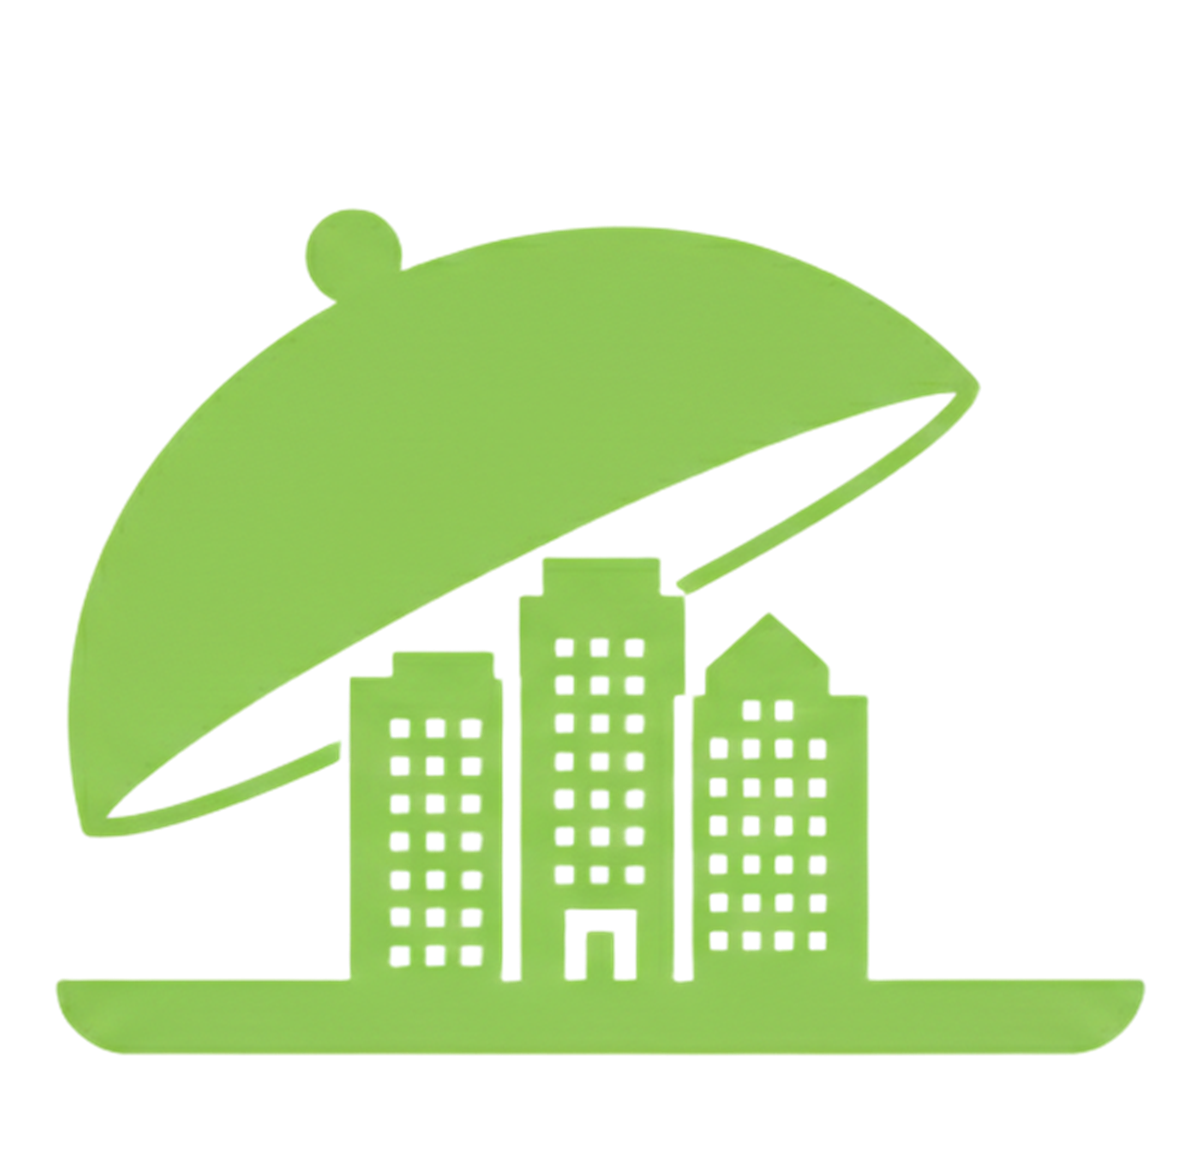
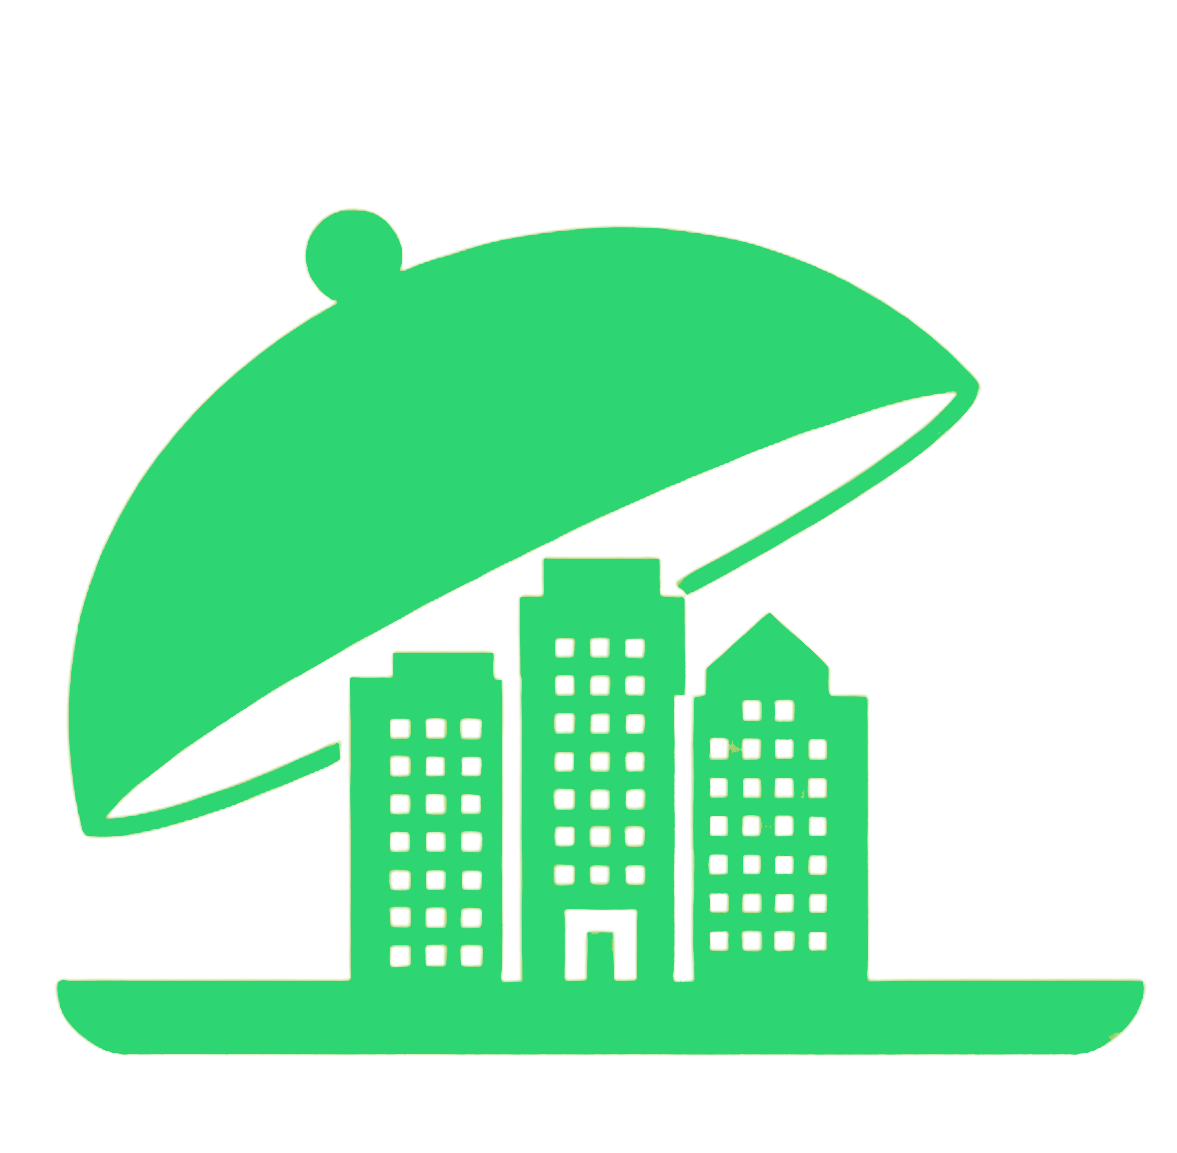
Style: 서울집사 로고 폴더 변경 및 로그인 페이지에 로고 추가

diff --git a/Front/src/components/layout/Header.tsx b/Front/src/components/layout/Header.tsx
@@ -1,17 +1,27 @@
 // seoul-jibsa\src\components\layout\Header.tsx
-import { useState } from "react";
+import { useState, useEffect } from "react";
 import { Link, NavLink, useNavigate, useLocation } from "react-router-dom";
 import { useAuth } from "../../context/AuthContext";
-import seoulJibsaLogo from "../../assets/seouljibsa.png";
 
 export default function Header() {
   const { isLoggedIn, user, logout } = useAuth();
   const navigate = useNavigate();
-  console.log("Header - isLoggedIn:", isLoggedIn, "user:", user);
-
   const location = useLocation();
+
+  // 1. 상태 선언 (함수 내부로 이동)
+  const [showKorean, setShowKorean] = useState(true);
+  const [isMenuOpen, setIsMenuOpen] = useState(false);
+
+  // 2. useEffect 배치 (함수 내부로 이동)
+  useEffect(() => {
+    const timer = setInterval(() => {
+      setShowKorean((prev) => !prev);
+    }, 3000); // 3초마다 변경
+
+    return () => clearInterval(timer);
+  }, []);
+
   const handleHomeClick = (e: React.MouseEvent) => {
-    // 현재 페이지가 홈("/")이라면 새로고침 실행
     if (location.pathname === "/") {
       e.preventDefault(); 
       window.location.href = "/";
@@ -23,17 +33,12 @@ export default function Header() {
     navigate("/"); 
   };
 
-  // 모바일 메뉴 상태 관리
-  const [isMenuOpen, setIsMenuOpen] = useState(false);
-  
-  const navBase =
-    "text-sm font-medium text-gray-700 hover:text-primary transition-colors whitespace-nowrap";
+  const navBase = "text-sm font-medium text-gray-700 hover:text-primary transition-colors whitespace-nowrap";
   const navActive = "text-sm font-semibold text-primary whitespace-nowrap";
 
   const navClass = ({ isActive }: { isActive: boolean }) => 
     isActive ? navActive : navBase;
 
-  // 모바일 메뉴 아이템용 스타일
   const mobileNavClass = ({ isActive }: { isActive: boolean }) =>
     `block py-3 px-4 ${isActive ? "text-primary font-semibold bg-primary/5" : "text-gray-700 font-medium hover:bg-gray-50"}`;
 
@@ -45,16 +50,40 @@ export default function Header() {
         {/* Left: Logo */}
         <Link to="/" onClick={handleHomeClick} className="flex items-center gap-3">
           <img
-            src={seoulJibsaLogo}
+            src="/seouljibsa.png"
             alt="서울집사 로고"
             className="h-9 w-9 object-contain"
           />
-          <span className="text-[15px] font-bold text-gray-900 whitespace-nowrap">
-            서울집사
+          
+          {/* 텍스트 전환 영역: overflow-hidden이 있어야 나가는 글자가 안 보입니다 */}
+          <span className="text-[15px] font-semibold text-gray-900 whitespace-nowrap overflow-hidden relative w-[110px] h-[22px]">
+            
+            {/* 한글: showKorean이 true일 때 중앙, false일 때 아래(full)로 이동 */}
+            <span 
+              className={`absolute inset-0 transition-all duration-700 ease-in-out transform ${
+                showKorean 
+                  ? 'translate-y-0 opacity-100' 
+                  : 'translate-y-full opacity-0'
+              }`}
+            >
+              서울집사
+            </span>
+
+            {/* 영어: showKorean이 true일 때 위(-full)에서 대기, false일 때 중앙으로 이동 */}
+            <span 
+              className={`absolute inset-0 transition-all duration-700 ease-in-out transform ${
+                showKorean 
+                  ? '-translate-y-full opacity-0' 
+                  : 'translate-y-0 opacity-100'
+              }`}
+            >
+              Seoul Jibsa
+            </span>
+
           </span>
         </Link>
 
-        {/* Center: Nav */}
+        {/* Center: Nav (생략 - 기존과 동일) */}
         <nav className="hidden md:flex items-center gap-6 lg:gap-8">
           <NavLink to="/" onClick={handleHomeClick} className={navClass}>홈</NavLink>
           <NavLink to="/notices" className={navClass}>SH 공고 찾기</NavLink>
@@ -63,73 +92,41 @@ export default function Header() {
           <NavLink to="/mypage" className={navClass}>마이페이지</NavLink>
         </nav>
 
-        {/* Right: Actions */}
+        {/* Right: Actions (생략 - 기존과 동일) */}
         <div className="flex items-center gap-2 sm:gap-4">
-          {/* Auth Actions */}
           {isLoggedIn && user ? (
             <div className="flex items-center gap-2 sm:gap-4">
-              <Link
-                to="/mypage"
-                className="font-bold text-gray-700 hover:text-primary transition-colors cursor-pointer text-sm sm:text-base"
-              >
+              <Link to="/mypage" className="font-bold text-gray-700 hover:text-primary transition-colors cursor-pointer text-sm sm:text-base">
                 {user.userName}님
               </Link>
-              <button
-                onClick={handleLogout}
-                className="text-xs sm:text-sm text-gray-500 hover:text-black whitespace-nowrap"
-              >
+              <button onClick={handleLogout} className="text-xs sm:text-sm text-gray-500 hover:text-black whitespace-nowrap">
                 로그아웃
               </button>
             </div>
           ) : (
             <div className="flex items-center gap-2 sm:gap-3">
-              <Link
-                to="/login"
-                className="text-sm font-semibold text-gray-900 hover:text-primary transition-colors whitespace-nowrap"
-              >
+              <Link to="/login" className="text-sm font-semibold text-gray-900 hover:text-primary transition-colors whitespace-nowrap">
                 로그인
               </Link>
-
-              <Link
-                to="/signup"
-                className="inline-flex items-center justify-center rounded-full bg-primary text-white text-xs sm:text-sm font-semibold px-3 py-1.5 sm:px-5 sm:py-2 shadow-md shadow-primary/25 hover:brightness-105 active:scale-[0.98] transition-all whitespace-nowrap"
-              >
+              <Link to="/signup" className="inline-flex items-center justify-center rounded-full bg-primary text-white text-xs sm:text-sm font-semibold px-3 py-1.5 sm:px-5 sm:py-2 shadow-md shadow-primary/25 hover:brightness-105 active:scale-[0.98] transition-all whitespace-nowrap">
                 시작하기
               </Link>
             </div>
           )}
-
-          {/* Hamburger Button (Mobile) */}
-          <button
-            className="md:hidden p-1 text-gray-600 hover:bg-gray-100 rounded-md transition-colors ml-1"
-            onClick={() => setIsMenuOpen(!isMenuOpen)}
-            aria-label="메뉴 열기"
-          >
-            <span className="material-symbols-outlined text-2xl">
-              {isMenuOpen ? "close" : "menu"}
-            </span>
+          <button className="md:hidden p-1 text-gray-600 hover:bg-gray-100 rounded-md transition-colors ml-1" onClick={() => setIsMenuOpen(!isMenuOpen)}>
+            <span className="material-symbols-outlined text-2xl">{isMenuOpen ? "close" : "menu"}</span>
           </button>
         </div>
       </div>
-      {/* 메뉴 드롭다운 */}
+      {/* 모바일 메뉴 드롭다운 (생략 - 기존과 동일) */}
       {isMenuOpen && (
         <div className="md:hidden absolute top-full left-0 w-full bg-white border-b border-gray-100 shadow-lg animate-fade-in-down">
           <nav className="flex flex-col py-2">
-            <NavLink to="/" className={mobileNavClass} onClick={closeMenu}>
-              홈
-            </NavLink>
-            <NavLink to="/notices" className={mobileNavClass} onClick={closeMenu}>
-              SH 공고 찾기
-            </NavLink>
-            <NavLink to="/chatbot" className={mobileNavClass} onClick={closeMenu}>
-              AI 채팅
-            </NavLink>
-            <NavLink to="/playground" className={mobileNavClass} onClick={closeMenu}>
-              청약 놀이터
-            </NavLink>
-            <NavLink to="/mypage" className={mobileNavClass} onClick={closeMenu}>
-              마이페이지
-            </NavLink>
+            <NavLink to="/" className={mobileNavClass} onClick={closeMenu}>홈</NavLink>
+            <NavLink to="/notices" className={mobileNavClass} onClick={closeMenu}>SH 공고 찾기</NavLink>
+            <NavLink to="/chatbot" className={mobileNavClass} onClick={closeMenu}>AI 채팅</NavLink>
+            <NavLink to="/playground" className={mobileNavClass} onClick={closeMenu}>청약 놀이터</NavLink>
+            <NavLink to="/mypage" className={mobileNavClass} onClick={closeMenu}>마이페이지</NavLink>
           </nav>
         </div>
       )}

diff --git a/Front/src/pages/LoginPage.tsx b/Front/src/pages/LoginPage.tsx
@@ -51,8 +51,12 @@ export default function LoginPage() {
     <div className="bg-white flex flex-col items-center my-12 px-4 sm:px-6 lg:px-8">
       <div className="max-w-md w-full bg-white rounded-[2rem] shadow-lg border border-gray-100 p-8 md:p-10 relative">
         <div className="text-center mb-8">
-          <div className="inline-flex items-center justify-center w-16 h-16 rounded-full bg-primary/10 text-primary mb-4">
-            <span className="material-symbols-outlined text-3xl">storefront</span>
+          <div className="inline-flex items-center justify-center w-16 h-16 rounded-full bg-primary/10 mb-4">
+            <img
+              src="/seouljibsa.png"
+              alt="서울집사 로고"
+              className="w-8 h-8 object-contain"
+            />
           </div>
           <h2 className="text-2xl font-bold text-[#111814] mb-1">
             서울집사 로그인

diff --git a/Front/src/components/layout/Footer.tsx b/Front/src/components/layout/Footer.tsx
@@ -1,5 +1,3 @@
-import seoulJibsaLogo from "../../assets/seouljibsa.png";
-
 export default function Footer() {
   return (
     <footer className="border-t border-gray-100 dark:border-white/5 px-4 md:px-20 lg:px-40 py-12 bg-white dark:bg-background-dark/50">
@@ -7,7 +5,7 @@ export default function Footer() {
         <div className="space-y-4">
           <div className="flex items-center gap-3">
             <img
-              src={seoulJibsaLogo}
+              src="/seouljibsa.png"
               alt="서울집사 로고"
               className="h-8 w-8 object-contain"
             />
